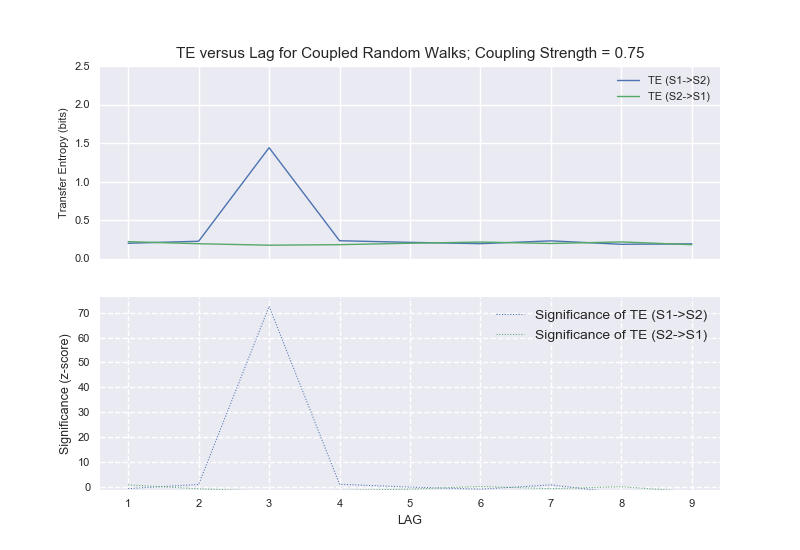
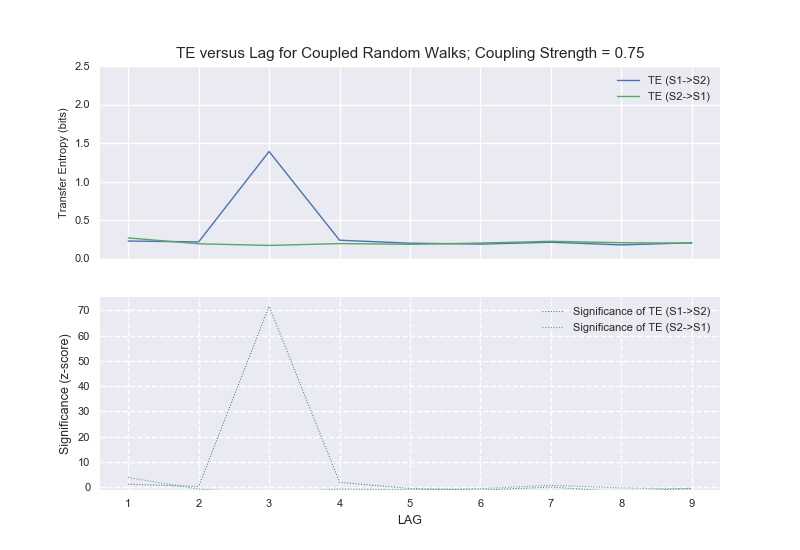
Improved plots, fixed legends, in Examples

diff --git a/PyCausality/Examples/hist_vs_kde.py b/PyCausality/Examples/hist_vs_kde.py
@@ -3,9 +3,12 @@
 
         This example shows the effect of selecting histogram or kernel density estimation when
         approximating the probability distribution of the provided data. We use a coupled random
-        walk, with transition probablity which follows the normal distribution; hence we can 
-        calculate the theoretical transfer entropy using the analytical solution to multivariate 
-        entropy. 
+        walk, with a Gaussian transition probablity; hence we can compare the accuracy of the estimate to 
+        the theoretical transfer entropy calculated using the analytical solution to differential entropy of 
+        the multivariate Gaussian distribution.
+
+        The analysis is performed over multiple realisations, defined by the N_OBSERVATIONS parameter, and the 
+        N_SHUFFLES drives a significance test, returning Z-score values for each method. 
 
 """
 
@@ -19,95 +22,88 @@ from PyCausality.Testing.Test_Utils.Time_Series_Generate import *
 LAG = 1
 
 AUTOSIMILARITY = 0         # Choose value in range [0,1) (where  0 =independent and 1=exact lagged value)
-SEED = None                # Change pseudo-RNG seed; useful for repeat results & comparing bin choices
-DATA_POINTS = 250
+DATA_POINTS = 1000
 BANDWIDTH = 0.8            # Choose bandwidth for KDE
-SIMILARITY = np.linspace(0,0.9,9)
+SIMILARITY = np.linspace(0,0.9,10)
 N_SHUFFLES = 50
+N_OBSERVATIONS = 3
 
-## Prepare Results
-TE_XY_Hists = []
-TE_YX_Hists = []
-TE_XY_KDEs = []
-TE_YX_KDEs = []
-TE_XY_theos = []
-
-z_scores_XY_Hists = []
-z_scores_YX_Hists = []
-z_scores_XY_KDEs = []
-z_scores_YX_KDEs = []
-
-for a in SIMILARITY:
-    print("\n\n Coupling Strength:",a)
-
-    ## Create Coupled Time Series
-    DF = coupled_random_walks(  S1 = 200, S2 = 200, T = 0.5, 
-                                N = DATA_POINTS, mu1 = 0, mu2 = 0, 
-                                sigma1 = 0.5, sigma2 = 0.25, 
-                                alpha = a, epsilon = AUTOSIMILARITY,
-                                lag = LAG, seed=SEED)
-   
-
-    ## To get data which is Gaussian distributed, we use a scaled %-change with mu = 0
-    DF = DF.pct_change().iloc[1:]
-
-    #plot_pdf(DF)
-    #plt.show()
-
-    ## Initialise TE object
-    causality = TransferEntropy(DF = DF,
-                                endog = 'S2',          # Dependent Variable
-                                exog = 'S1',           # Independent Variable
-                                lag = LAG
-                                )
-
-    ## Uncomment to Choose Bins
-    #edges = None # Uses sigma_binning by default
-    auto = AutoBins(DF[['S1','S2']])
-    edges = auto.knuth_bins(max_bins=20)
-
-    ## Calculate TE using Histogram
-    #(TE_XY, TE_YX) = causality.nonlinear_TE(pdf_estimator = 'kernel', n_shuffles=N_SHUFFLES)
-    (TE_XY, TE_YX) = causality.nonlinear_TE(pdf_estimator = 'histogram', bins= edges, n_shuffles=N_SHUFFLES)
-    TE_XY_Hists.append(TE_XY)
-    TE_YX_Hists.append(TE_YX)
-    z_scores_XY_Hists.append(causality.results['z_score_XY'].iloc[0])
-    z_scores_YX_Hists.append(causality.results['z_score_YX'].iloc[0])
-    print("Histogram TE: \t\t",TE_XY,'\t', TE_YX)
-    print("Hist Z-scores: \t\t", causality.results['z_score_XY'].iloc[0], '\t', causality.results['z_score_YX'].iloc[0])
-
-    ## Calculate TE using KDE
-    (TE_XY, TE_YX) = causality.nonlinear_TE(pdf_estimator = 'kernel', bandwidth=BANDWIDTH, gridpoints=20, n_shuffles=N_SHUFFLES)
-    TE_XY_KDEs.append(TE_XY)
-    TE_YX_KDEs.append(TE_YX)
-    z_scores_XY_KDEs.append(causality.results['z_score_XY'].iloc[0])
-    z_scores_YX_KDEs.append(causality.results['z_score_YX'].iloc[0])
-    print("Kernel TE: \t\t", TE_XY,'\t', TE_YX)
-    print("Kernel Z-scores: \t\t", causality.results['z_score_XY'].iloc[0], '\t', causality.results['z_score_YX'].iloc[0])
-   
-    ## Calculate Theoretical Entropy
-    H1 = 0.5 * np.log( np.linalg.det(2* np.pi * np.e * np.cov(causality.df[0].drop(columns=['S1']).values.T)) )      
-    H2 = 0.5 * np.log( np.linalg.det(2* np.pi * np.e * np.cov(causality.df[0].drop(columns=['S1','S2']).values.T)) )
-    H3 = 0.5 * np.log( np.linalg.det(2* np.pi * np.e * np.cov(causality.df[0].drop(columns=['S1','S1_lag'+str(LAG)]).values.T)) )
-    H4 = 0.5 * np.log( 2 * np.pi * np.e * np.std(causality.df[0]['S2_lag'+str(LAG)])**2)
-    TE_XY_theo = (H3 - H4) - (H1 - H2)
-    TE_XY_theos.append(2 ** (np.log(TE_XY_theo) / np.log(2)))    # Convert TE to 'Bits'
+## Prepare containers to store results
+TE_Hists = np.zeros(shape=(N_OBSERVATIONS,len(SIMILARITY),2))
+TE_KDEs  = np.zeros(shape=(N_OBSERVATIONS,len(SIMILARITY),2))
+Z_Hists  = np.zeros(shape=(N_OBSERVATIONS,len(SIMILARITY),2))
+Z_KDEs   = np.zeros(shape=(N_OBSERVATIONS,len(SIMILARITY),2))
+TE_XY_Theos   = np.zeros(shape=(N_OBSERVATIONS,len(SIMILARITY)))
 
 
+
+## Calculate TE for increasing coupling strength 
+for i,alpha in enumerate(SIMILARITY):
+    print("\n\n Coupling Strength:", alpha)
+
+    ## Loop over multiple realisations at each alpha, for improved reliability
+    for observation in range(N_OBSERVATIONS):  
+    
+        ## Create Coupled Time Series
+        DF = coupled_random_walks(  S1 = 200, S2 = 200, T = 0.5, 
+                                    N = DATA_POINTS, mu1 = 0, mu2 = 0, 
+                                    sigma1 = 0.5, sigma2 = 0.25, 
+                                    alpha = alpha, epsilon = AUTOSIMILARITY,
+                                    lag = LAG, seed=None)
+
+        ## To get data which is Gaussian distributed, we use a scaled %-change with mu = 0
+        DF = DF.pct_change().iloc[1:]
+
+        #plot_pdf(DF,show=True)
+
+
+        ## Initialise TE object
+        causality = TransferEntropy(DF = DF,
+                                    endog = 'S2',          # Dependent Variable
+                                    exog = 'S1',           # Independent Variable
+                                    lag = LAG
+                                    )
+
+        ## Generate histogram bins
+        auto = AutoBins(DF[['S1','S2']], lag=LAG)
+        edges = auto.sigma_bins(max_bins=5)
+
+        ## Calculate TE using Histogram
+        TE_Hists[observation,i,:] = causality.nonlinear_TE(pdf_estimator = 'histogram', bins= edges, n_shuffles=N_SHUFFLES)
+        Z_Hists[observation,i,:] = (causality.results['z_score_XY'].iloc[0], causality.results['z_score_YX'].iloc[0])
+        
+        ## Calculate TE using KDE
+        TE_KDEs[observation,i,:] = causality.nonlinear_TE(pdf_estimator = 'kernel', gridpoints=25,bandwidth=BANDWIDTH, n_shuffles=N_SHUFFLES)
+        Z_KDEs[observation,i,:] = (causality.results['z_score_XY'].iloc[0], causality.results['z_score_YX'].iloc[0])
+
+        ## Calculate Theoretical Entropy
+        H1 = 0.5 * np.log( np.linalg.det(2* np.pi * np.e * np.cov(causality.df[0].drop(columns=['S1']).values.T)) )      
+        H2 = 0.5 * np.log( np.linalg.det(2* np.pi * np.e * np.cov(causality.df[0].drop(columns=['S1','S2']).values.T)) )
+        H3 = 0.5 * np.log( np.linalg.det(2* np.pi * np.e * np.cov(causality.df[0].drop(columns=['S1','S1_lag'+str(LAG)]).values.T)) )
+        H4 = 0.5 * np.log( 2 * np.pi * np.e * np.std(causality.df[0]['S2_lag'+str(LAG)])**2)
+        TE_XY_Theos[observation,i] = (H3 - H4) - (H1 - H2)
+
+
+    # Print results averaged over N_OBSERVATIONs
+    print("Histogram TE: \t\t",TE_Hists[:,i,:].mean(axis=0))
+    print("Histogram Z-scores:", Z_Hists[:,i,:].mean(axis=0))
+    print("Kernel TE: \t\t",TE_KDEs[:,i,:].mean(axis=0))
+    print("Kernel Z-scores:", Z_KDEs[:,i,:].mean(axis=0))
+    
 
 ### -------------------------------------- Store & Plot Results ---------------------------------------- ###
 
 
 results = pd.DataFrame({'Coupling':SIMILARITY,
-                        'TE_XY':TE_XY_Hists,
-                        'TE_YX':TE_YX_Hists,
-                        'TE_XY(kde)':TE_XY_KDEs,
-                        'TE_YX(kde)':TE_YX_KDEs,
-                        'TE_XY(Theoretical)':TE_XY_theos,
-                        'z_scores_XY':z_scores_XY_Hists,
-                        'z_scores_YX':z_scores_YX_Hists,
-                        'z_scores_XY(kde)':z_scores_XY_KDEs,
-                        'z_scores_YX(kde)':z_scores_YX_KDEs
+                        'TE_XY':TE_Hists.mean(axis=0)[:,0],
+                        'TE_YX':TE_Hists.mean(axis=0)[:,1],
+                        'TE_XY(kde)':TE_KDEs.mean(axis=0)[:,0],
+                        'TE_YX(kde)':TE_KDEs.mean(axis=0)[:,1],
+                        'TE_XY(Theoretical)':TE_XY_Theos.mean(axis=0),
+                        'z_scores_XY':Z_Hists.mean(axis=0)[:,0],
+                        'z_scores_YX':Z_Hists.mean(axis=0)[:,1],
+                        'z_scores_XY(kde)':Z_KDEs.mean(axis=0)[:,0],
+                        'z_scores_YX(kde)':Z_KDEs.mean(axis=0)[:,1]
                         })
 results.set_index('Coupling',inplace=True)
 
@@ -124,21 +120,23 @@ results['TE_YX'].plot(linewidth=1,ax=TE_axis)
 results['TE_YX(kde)'].plot(linewidth=1,ax=TE_axis)
 results['TE_XY(Theoretical)'].plot(linewidth=1.25,ax=TE_axis, color='k', linestyle='--')
 
-results['z_scores_XY'].plot(linewidth=0.9, linestyle=':',color='b',ax=Z_axis)
-results['z_scores_YX'].plot(linewidth=0.9, linestyle=':',ax=Z_axis)
-results['z_scores_XY(kde)'].plot(linewidth=0.9, linestyle=':',ax=Z_axis)
-results['z_scores_YX(kde)'].plot(linewidth=0.9, linestyle=':',ax=Z_axis)
+results['z_scores_XY'].plot(linewidth=0.9, linestyle=':', ax=Z_axis)
+results['z_scores_XY(kde)'].plot(linewidth=0.9, linestyle=':', ax=Z_axis)
+results['z_scores_YX'].plot(linewidth=0.9, linestyle=':', ax=Z_axis)
+results['z_scores_YX(kde)'].plot(linewidth=0.9, linestyle=':', ax=Z_axis)
 
 ## Format Plots
-TE_axis.set_title('Calculation of Transfer Entropy for Synthetic Coupled Geometric Random Walks', weight='bold')
-TE_axis.set_ylabel('Transfer Entropy (bits)')
+TE_axis.set_title('Calculation of Transfer Entropy for Synthetic Coupled Geometric Random Walks', fontsize=11)
+TE_axis.set_ylabel('Transfer Entropy (bits)',fontsize=10)
 TE_axis.legend(['TE from S1->S2 (Histogram Estimation)', 'TE from S1->S2 (KDE)',
                 'TE from S2->S1 (Histogram Estimation)', 'TE from S2->S1 (KDE)',
-                'Theoretical TE of Normally Distributed Stochastic Process'])
-Z_axis.set_ylabel('Significance (z-score)')
+                'Theoretical TE of Normally Distributed Stochastic Process'], fontsize=8)
+Z_axis.set_yscale('log')
+Z_axis.set_ylim(ymin=2)
+Z_axis.set_ylabel('Significance (z-score)',fontsize=10)
 Z_axis.legend(['Significance of TE from S1->S2 (Histogram)','Significance of TE from S1->S2 (KDE)',
-                'Significance of TE from S2->S1 (Histogram)','Significance of TE from S2->S1 (KDE)'])
+                'Significance of TE from S2->S1 (Histogram)','Significance of TE from S2->S1 (KDE)'], fontsize=8)
 
 plt.grid(linestyle='dashed')
-plt.savefig(os.path.join(os.getcwd(),'PyCausality','Examples','Plots','Histogram_vs_KDE.png'))
+plt.savefig(os.path.join(os.getcwd(),'PyCausality','Examples','Plots','Histogram_vs_KDE (sigma bins).png'))
 plt.show()

diff --git a/PyCausality/Examples/te_vs_lag.py b/PyCausality/Examples/te_vs_lag.py
@@ -21,40 +21,25 @@ import matplotlib.pyplot as plt
 ## Set Parameters
 DATALAG = 3                     # The TE code should pick out this lag, which contributes most information
 LAGs = [r for r in range(1,10,1)]
-SIMILARITY = 0.75               # Choose value between 0 (independent) to 1 (exact lagged value)
+SIMILARITY = 0.025                # Choose value between 0 (independent) to 1 (exact lagged value)
 AUTOSIMILARITY = 0.3            # Choose value between 0 (independent) to 1 (exact lagged value)
 SEED = None                     # Change pseudo-RNG seed; useful for repeat results & comparing bin choices
 
-MAX_BINS = 7
+MAX_BINS = 9
 N_SHUFFLES = 50
-
+DATA_POINTS = 500
 
 ##------------------------------ Create Highly Coupled Time Seriess ------------------------------##
 
 
 ### Uncomment to compare coupled geometric brownian motions
-DATA_POINTS = 1000
 walks = coupled_random_walks(   S1 = 100, S2 = 90, T = 1, 
                                 N = DATA_POINTS, mu1 = 0, mu2 = 0, 
                                 sigma1 = 1, sigma2 = 1, 
                                 alpha = SIMILARITY, epsilon = AUTOSIMILARITY,
                                 lag = DATALAG, seed=SEED)
+
 walks = np.log(walks).diff().iloc[1:]
-
-
-
-### Uncomment to compare coupled logistic map
-"""
-DATA_POINTS = 2**12
-walks = coupled_logistic_map(   S1=0.3, S2=0.8, T=1, N=DATA_POINTS, 
-                                    alpha=SIMILARITY, epsilon=AUTOSIMILARITY, r=4)
-
-bins = {    'S1':list(np.linspace(0,1,MAX_BINS+1)),
-        'S1_lag1':list(np.linspace(0,1,MAX_BINS+1)),
-        'S2':list(np.linspace(0,1,MAX_BINS+1)),
-        'S2_lag1':list(np.linspace(0,1,MAX_BINS+1))
-        }
-"""
 
 
 ## Create Lists for Results
@@ -83,14 +68,18 @@ for LAG in LAGs:
                 'S1_lag'+str(LAG):[-5, -2.5, -1, -0.5, 0, 0.5, 1, 2.5, 5],
                 'S2':[-5, -2.5, -1, -0.5, 0, 0.5, 1, 2.5, 5],
                 'S2_lag'+str(LAG):[-5, -2.5, -1, -0.5, 0, 0.5, 1, 2.5, 5]
-                }                                
-    auto = AutoBins(DF,lag=LAG)
-    bins = auto.equiprobable_bins(MAX_BINS)
+                } 
+                               
+    auto = AutoBins(walks,LAG)
+    bins = auto.equiprobable_bins(5)
+
+    #plot_pdf(DF[['S1','S2']],estimator='histogram',bins=bins,show=True)
 
     ## Calculate NonLinear TE
-    (TE_XY, TE_YX) = causality.nonlinear_TE(pdf_estimator = 'histogram',
+    (TE_XY, TE_YX) = causality.nonlinear_TE(pdf_estimator = 'kernel',
                                             bins = bins,
                                             n_shuffles = N_SHUFFLES)
+
 
     ## Store Results
     TEs_XY.append(TE_XY)
@@ -130,7 +119,7 @@ results['Z_YX'].plot(ax=Z_axis,linewidth=0.75, linestyle=':')
 Z_axis.set_xlabel('LAG',fontsize=9)
 Z_axis.set_ylim(ymin=-1)
 Z_axis.set_ylabel('Significance (z-score)',fontsize=9)
-Z_axis.legend(['Significance of TE (S1->S2)','Significance of TE (S2->S1)'])
+Z_axis.legend(['Significance of TE (S1->S2)','Significance of TE (S2->S1)'], fontsize=8)
 
 plt.grid(linestyle='dashed')
 TE_axis.xaxis.set_tick_params(labelsize=8)
@@ -138,6 +127,6 @@ TE_axis.yaxis.set_tick_params(labelsize=8)
 Z_axis.xaxis.set_tick_params(labelsize=8)
 Z_axis.yaxis.set_tick_params(labelsize=8)
 
-plt.savefig(os.path.join(os.getcwd(),'PyCausality','Examples','Plots','Detect_Lag.png'))
+#plt.savefig(os.path.join(os.getcwd(),'PyCausality','Examples','Plots','Detect_Lag.png'))
 plt.show()
 
